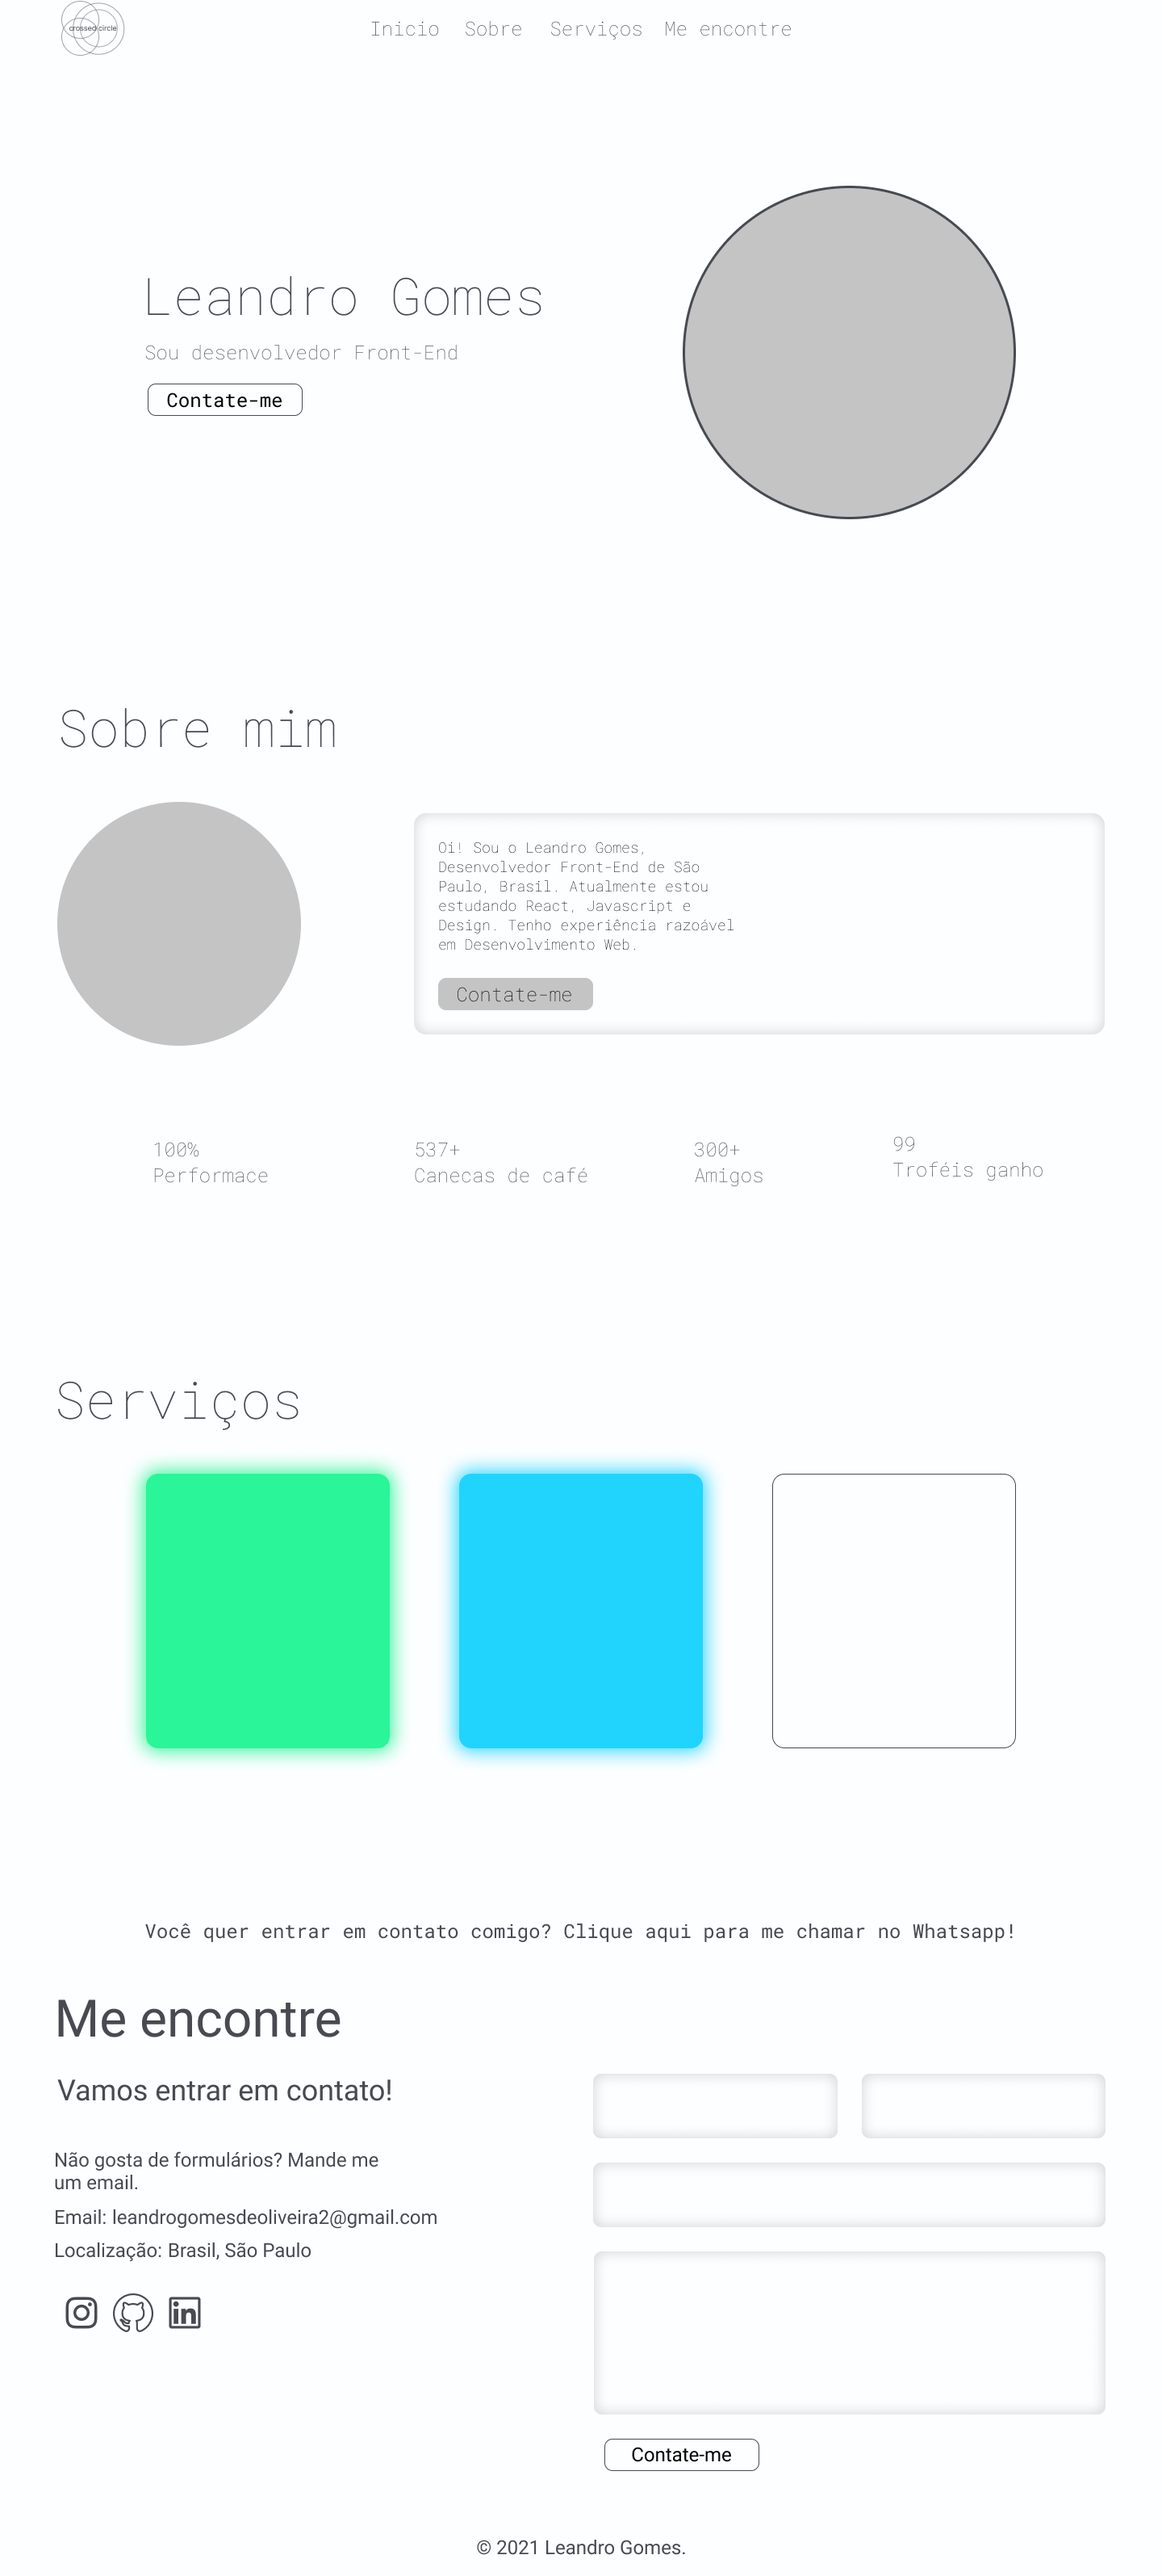
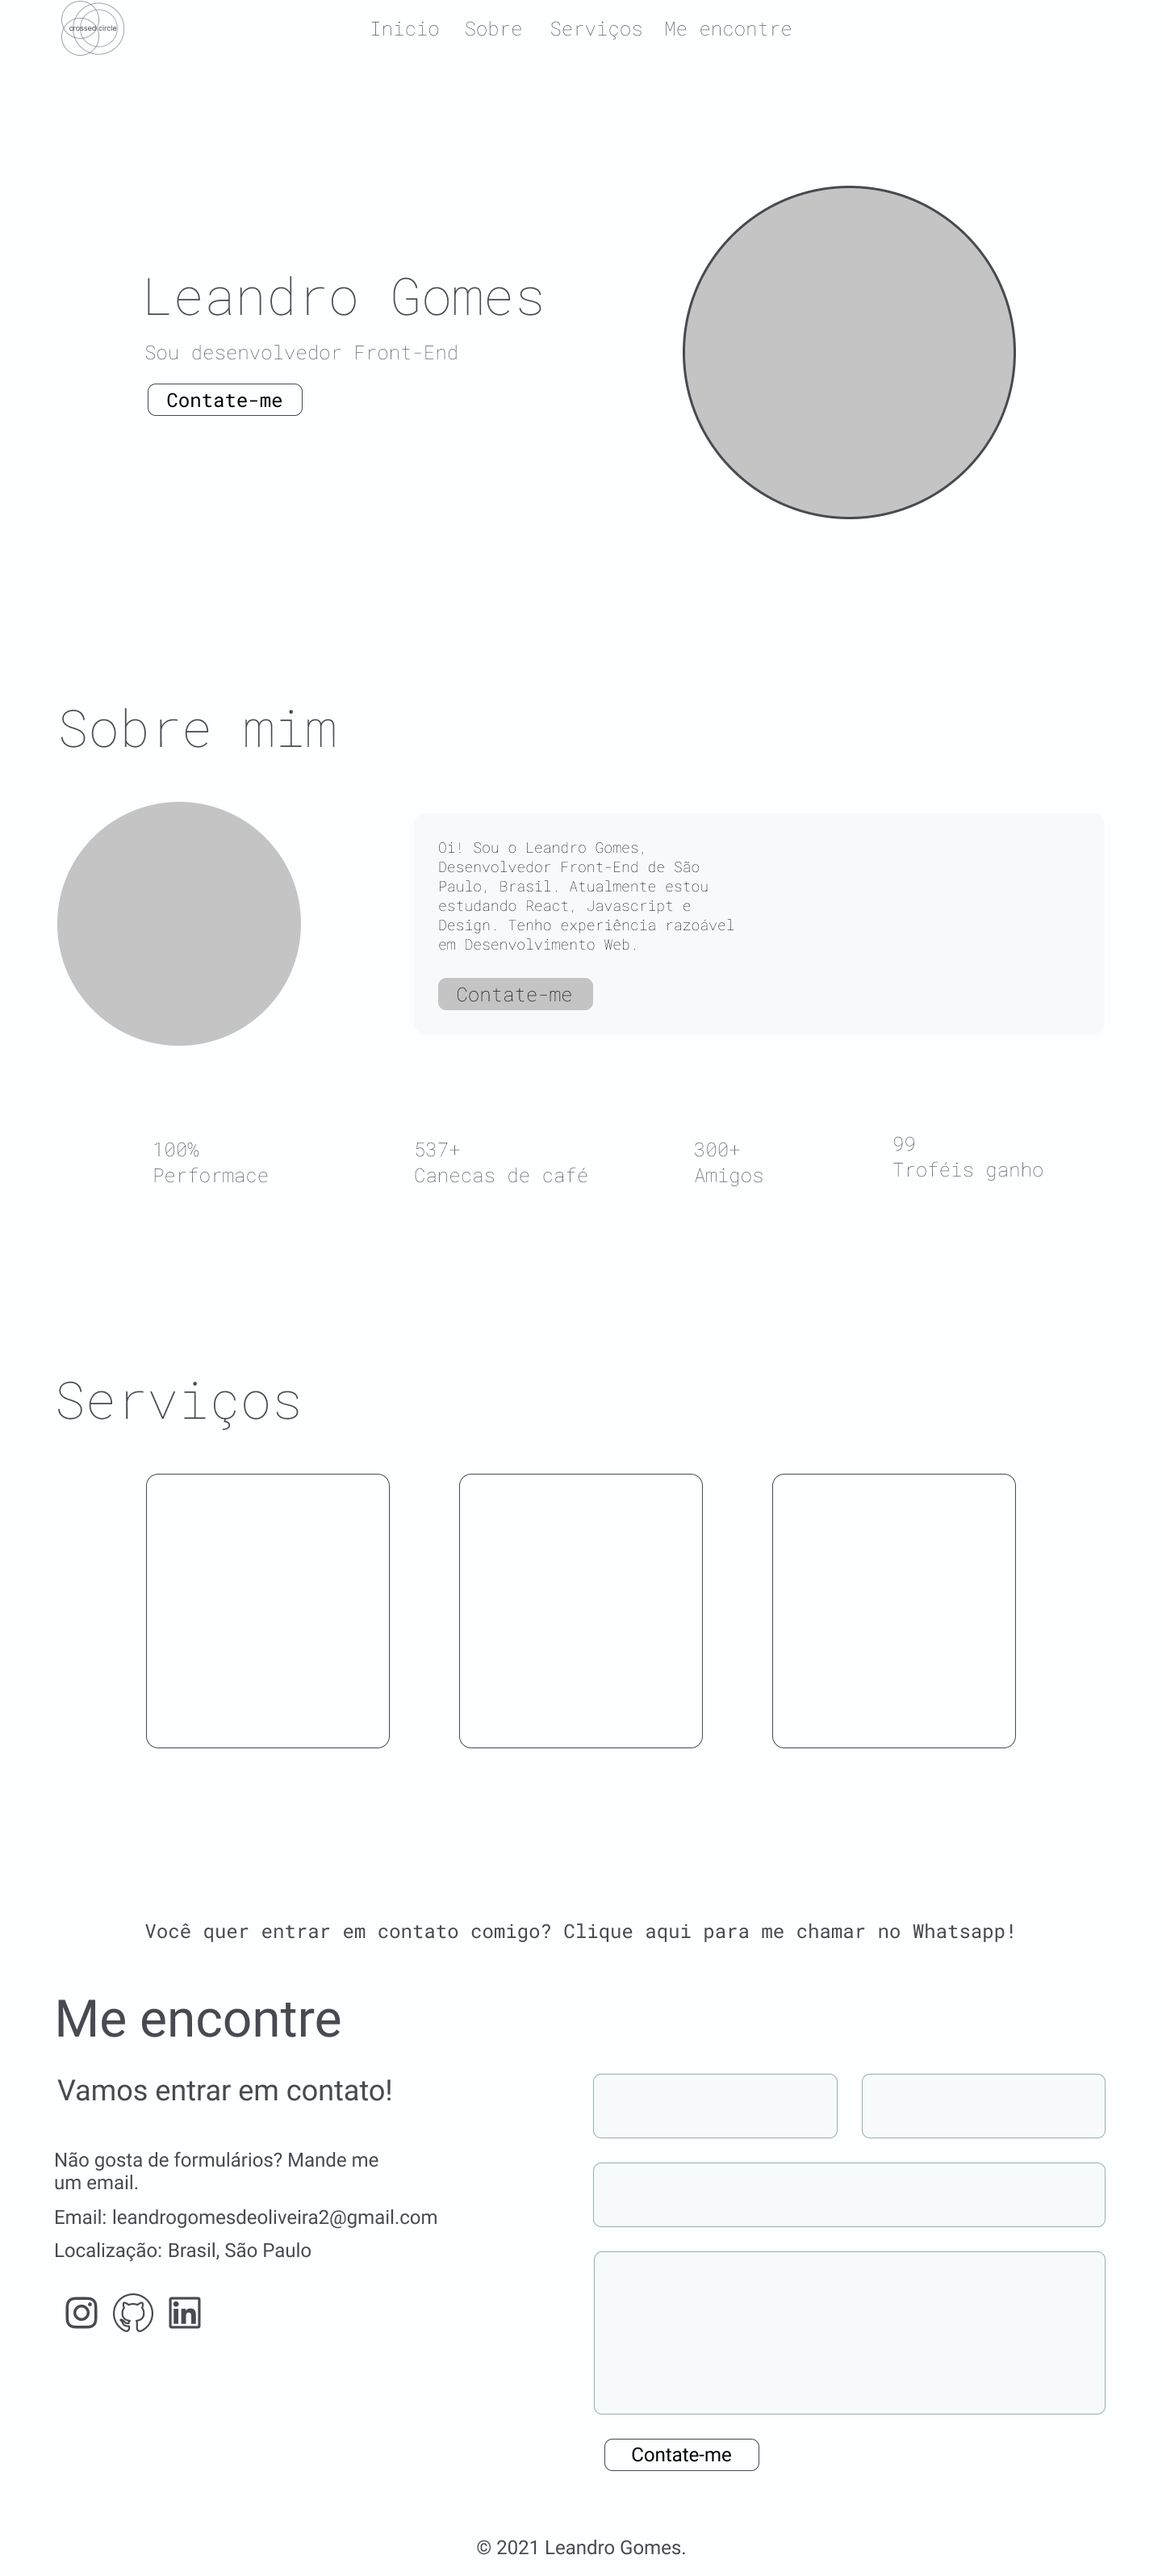
add profile picture and some backgrounds

Changed region(s): [[0.0938, 0.5586, 0.625, 0.6828]]

diff --git a/index.html b/index.html
@@ -35,7 +35,7 @@
 </div>
 
     <div id="sobre">
-        <div class="space-60"></div>
+        <div class="space-60 bg-perfil-d"></div>
         <h2 class="bg-l">Sobre mim</h2>
         <div class="space-60"></div>
 
@@ -185,21 +185,28 @@
                     <nav class="form">
                         
                         <!-- Nome e Email -->
-                        <div class="flex input-text">
-                        <input type="text" placeholder="Seu nome" class="shadow-inset">
-                        <div class="space-10"></div>
-                        <input type="email" name="" id="" placeholder="Email" class="shadow-inset">
-                        </div>
-                        <!-- assunto -->
-                        <div class="input-text">
-                            <input type="text" name="about" id="assu" placeholder="Assunto" class="shadow-inset">
-                        </div>
-                        <div class="space-10"></div>
-                        <!-- textarea e button -->
-                        <div class="input-text">
-                            <div ><textarea name="form" id="" cols="30" rows="10" placeholder="Mande sua mensagem!" class="shadow-inset"></textarea></div>
-                            <button>Contate-me</button>
-                        </div>
+                        <form action="" method="POST">
+                            <div class="flex input-text">
+                                <label for="nome"></label>
+                            <input type="text" id="nome" placeholder="Seu nome" class="shadow-inset" name="usuario_nome">
+                            <div class="space-10"></div>
+                            <label for="email"></label>
+                            <input type="email" name="" id="email" placeholder="Email" class="shadow-inset" name="usuario_email">
+                            </div>
+                            <!-- assunto -->
+                            <div class="input-text">
+                                <label for="assu"></label>
+                                <input type="text" name="about" id="assu" placeholder="Assunto" class="shadow-inset" name="usuario_assunto">
+                            </div>
+                            <div class="space-10"></div>
+                            <!-- textarea e button -->
+                            <div class="input-text">
+                                <div >
+                                    <label for="msg"></label>
+                                    <textarea name="form" id="msg" cols="30" rows="10" placeholder="Mande sua mensagem!" class="shadow-inset" name="usuario_msg"></textarea></div>
+                                <button type="submit">Contate-me</button>
+                            </div>
+                        </form>
                     </nav>
                 </div>
             </div>

diff --git a/css/style.css b/css/style.css
@@ -66,7 +66,7 @@ a.bt {
     font-size: 1em;
 }
 .shadow-inset {
-    box-shadow: inset 0 0 20px rgba(71, 74, 81, 0.25);
+    border: 0.1px solid #474a512c;
 }
 .bg-l {
     background-image: url('../img/bg-l.jpg');
@@ -78,6 +78,9 @@ a.bt {
 }
 .bg-main {
     background-image: url('../img/bg-main.jpg');
+}
+.bg-perfil-d {
+    background-image: url('../img/bg-div.png');
 }
 
 
@@ -486,6 +489,9 @@ textarea {
         background-image: url('../img/photo-bg.png');
     }
     .bg-main {
+        background-image: none;
+    }
+    .bg-perfil-d {
         background-image: none;
     }
     

diff --git a/js/script.js b/js/script.js
@@ -13,12 +13,12 @@ function textSlide() {
     setInterval(() => {
 
         if(i === string.length-1) {
-            console.log(string[i])
+            
             txt.innerHTML = ''
             txt.innerHTML = string[i]
             i = 0
         } else {
-            console.log(string[i])
+            
             txt.innerHTML = ''
             txt.innerHTML = string[i]
             i++
